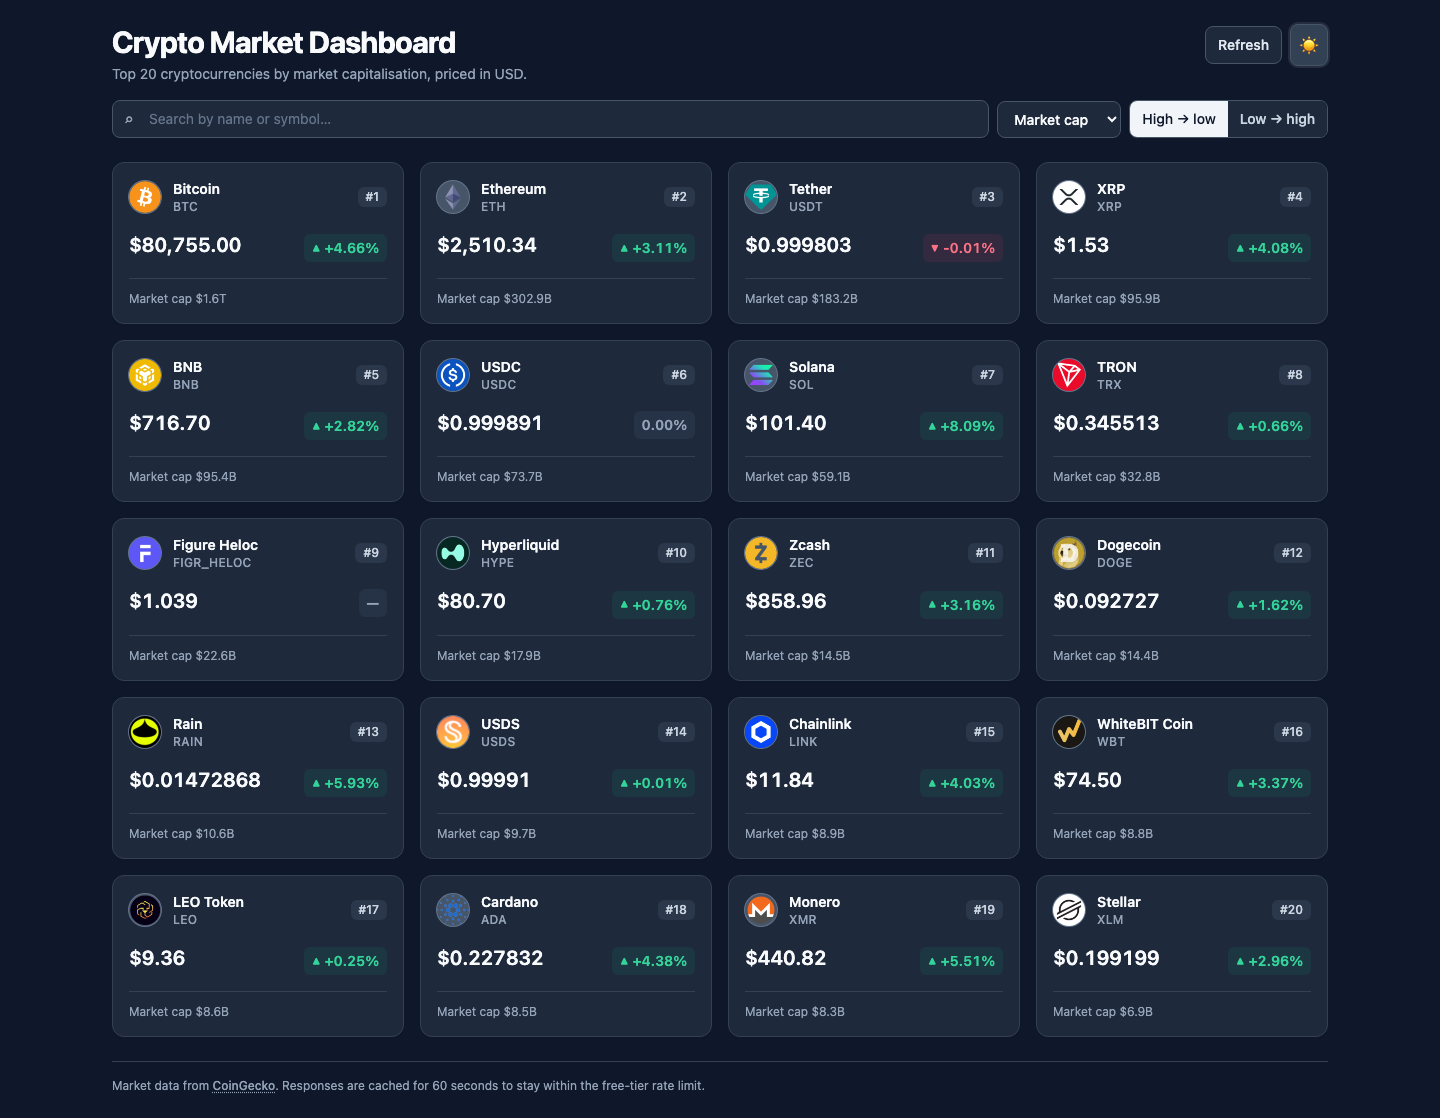
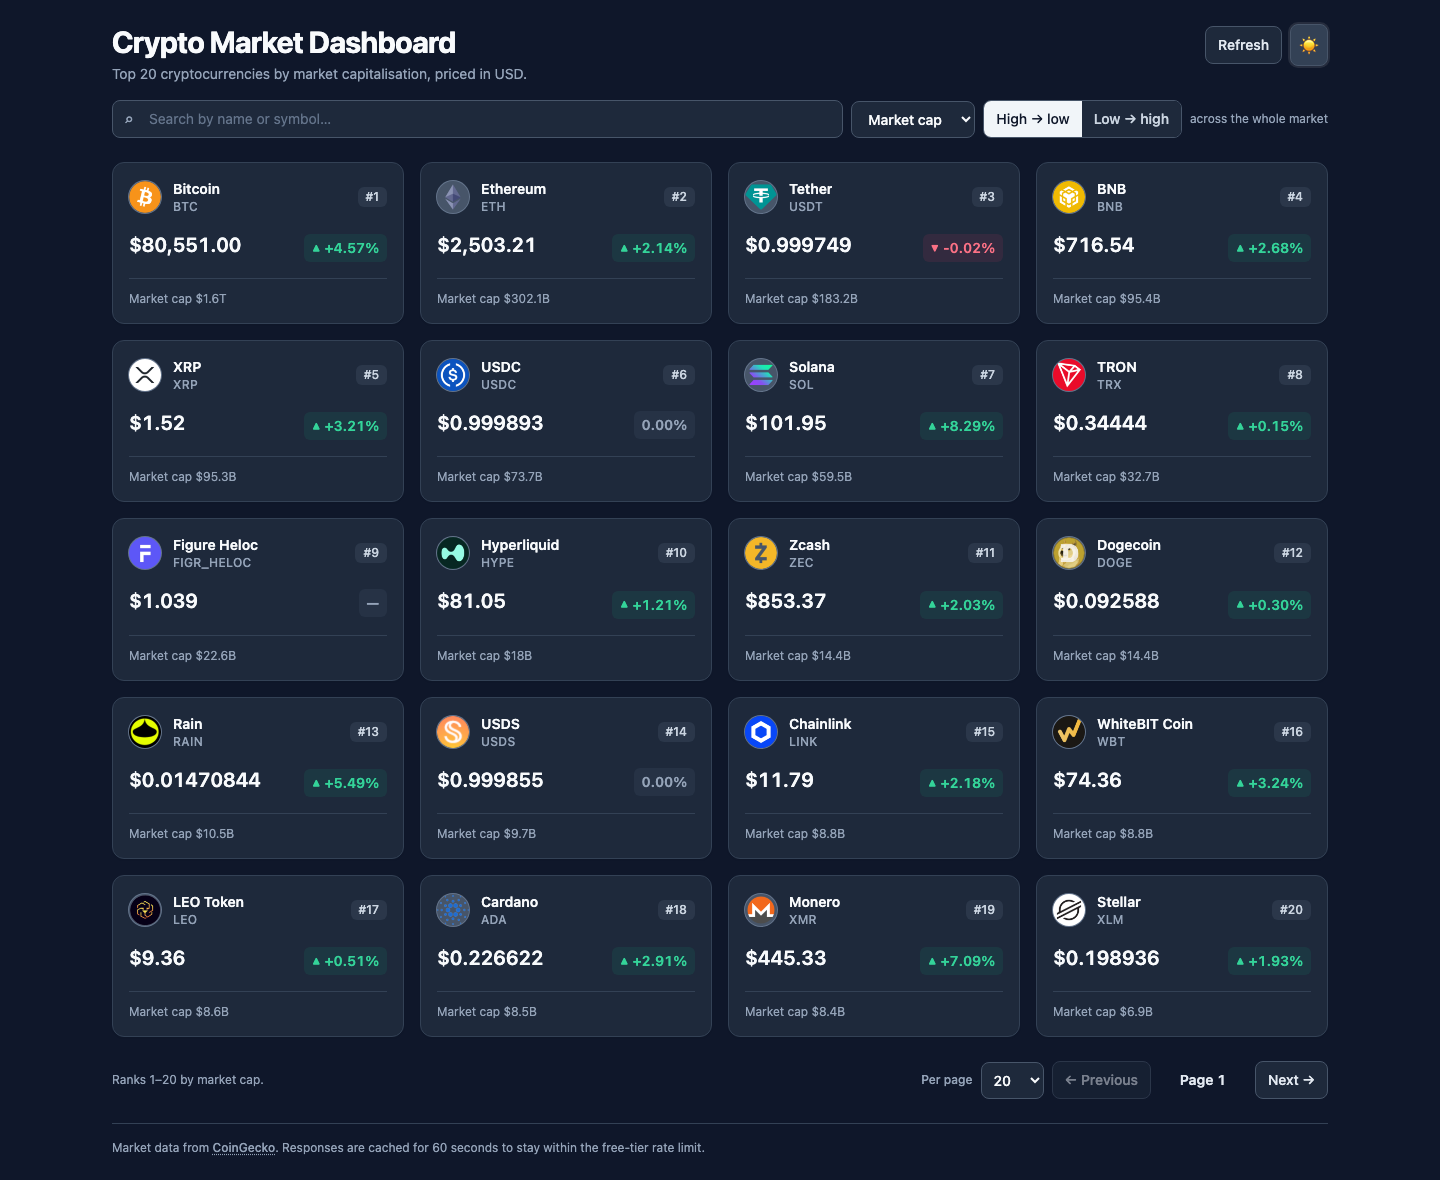
refactor: move the page-size control into the pagination bar
Feedback: the selector belonged with prev/next rather than crowding the search
and sort row, which had grown to four controls plus a scope hint.

- Pagination now hosts PageSizeSelect, so every paging concern - size, page
  number, direction, and the rank summary - lives in one row
- the label reads "Per page" rather than "Show", which is self-explanatory
  standing next to the pager instead of under a "Sort by" heading
- App no longer renders the selector itself, just passes size and handler down

Guarded by assertions on placement (inside [data-testid=pagination], absent
from the banner) and on the accessible name, so the control cannot silently
drift back into the header.

Also refreshes the README screenshots for the new layout, drops five scratch
screenshots that nothing referenced, and makes two knip-flagged helper
interfaces module-internal.

RED evidence:  2 failed, 13 passed  (placement + accessible name)
GREEN evidence:
  npx playwright test e2e/page-size.spec.ts --project=desktop-chromium
    -> 15 passed
  npx playwright test
    -> 199 passed, 5 skipped
  npx tsc --noEmit      -> clean
  CI=true npm run build -> Compiled successfully.
  npx knip              -> no unused files, exports or dependencies

diff --git a/src/components/PageSizeSelect.tsx b/src/components/PageSizeSelect.tsx
@@ -29,7 +29,7 @@ function PageSizeSelect({ value, onChange, disabled = false }: PageSizeSelectPro
         htmlFor="page-size"
         className="whitespace-nowrap text-xs font-medium text-slate-500 dark:text-slate-400"
       >
-        Show
+        Per page
       </label>
 
       <select
@@ -38,7 +38,7 @@ function PageSizeSelect({ value, onChange, disabled = false }: PageSizeSelectPro
         value={value}
         disabled={disabled}
         onChange={(event) => onChange(Number(event.target.value))}
-        className="rounded-lg border border-slate-300 bg-white px-3 py-2 text-sm font-medium text-slate-900 focus:border-slate-400 focus:outline-none focus:ring-2 focus:ring-slate-900/10 disabled:cursor-not-allowed disabled:opacity-60 dark:border-slate-600 dark:bg-slate-800 dark:text-slate-50 dark:focus:ring-slate-100/10"
+        className="rounded-lg border border-slate-300 bg-white px-2 py-2 text-sm font-medium text-slate-900 focus:border-slate-400 focus:outline-none focus:ring-2 focus:ring-slate-900/10 disabled:cursor-not-allowed disabled:opacity-60 dark:border-slate-600 dark:bg-slate-800 dark:text-slate-50 dark:focus:ring-slate-100/10"
       >
         {sizes.map((size) => (
           <option key={size} value={size}>

diff --git a/src/components/Pagination.tsx b/src/components/Pagination.tsx
@@ -1,4 +1,5 @@
 import React from 'react';
+import PageSizeSelect from './PageSizeSelect';
 
 interface PaginationProps {
   page: number;
@@ -11,8 +12,10 @@ interface PaginationProps {
   rankRange: { first: number; last: number } | null;
   /** Coins on the page, used as the summary when none of them carry a rank. */
   coinCount: number;
+  pageSize: number;
   disabled?: boolean;
   onPageChange: (page: number) => void;
+  onPageSizeChange: (size: number) => void;
 }
 
 function Pagination({
@@ -20,8 +23,10 @@ function Pagination({
   hasNextPage,
   rankRange,
   coinCount,
+  pageSize,
   disabled = false,
   onPageChange,
+  onPageSizeChange,
 }: PaginationProps) {
   /*
    * Ranks are the most useful summary, but coins at the bottom of the market
@@ -49,7 +54,9 @@ function Pagination({
     >
       <p className="text-xs text-slate-500 dark:text-slate-400">{summary}</p>
 
-      <div className="flex items-center gap-2">
+      <div className="flex flex-wrap items-center gap-2">
+        <PageSizeSelect value={pageSize} onChange={onPageSizeChange} disabled={disabled} />
+
         <button
           type="button"
           data-testid="prev-page"

diff --git a/src/App.tsx b/src/App.tsx
@@ -1,7 +1,6 @@
 import React, { useCallback, useMemo, useState } from 'react';
 import CoinGrid from './components/CoinGrid';
 import Pagination from './components/Pagination';
-import PageSizeSelect from './components/PageSizeSelect';
 import SearchBar from './components/SearchBar';
 import SortControls from './components/SortControls';
 import ThemeToggle from './components/ThemeToggle';
@@ -179,11 +178,6 @@ function App() {
               onDirectionChange={handleSortDirectionChange}
               disabled={controlsDisabled}
             />
-            <PageSizeSelect
-              value={pageSize}
-              onChange={handlePageSizeChange}
-              disabled={controlsDisabled}
-            />
           </div>
         </header>
 
@@ -200,8 +194,10 @@ function App() {
             hasNextPage={hasNextPage}
             rankRange={rankRange}
             coinCount={coins.length}
+            pageSize={pageSize}
             disabled={loading}
             onPageChange={goToPage}
+            onPageSizeChange={handlePageSizeChange}
           />
         )}
 

diff --git a/e2e/page-size.spec.ts b/e2e/page-size.spec.ts
@@ -22,6 +22,19 @@ test.describe('the control', () => {
     await expect(page.getByTestId('page-size')).toHaveValue('20');
   });
 
+  test('sits with the pagination controls, not in the header', async ({ page }) => {
+    // Page size is a paging concern, so it belongs next to prev/next rather
+    // than crowding the search and sort row.
+    await expect(page.getByTestId('pagination').getByTestId('page-size')).toBeVisible();
+    await expect(page.getByRole('banner').getByTestId('page-size')).toHaveCount(0);
+  });
+
+  test('is labelled so its purpose is clear on its own', async ({ page }) => {
+    const select = page.getByTestId('pagination').getByTestId('page-size');
+
+    await expect(select).toHaveAccessibleName(/per page/i);
+  });
+
   test('offers the configured default among its options', async ({ page }) => {
     const values = await page
       .getByTestId('page-size')

diff --git a/e2e/helpers/mockApi.ts b/e2e/helpers/mockApi.ts
@@ -124,7 +124,7 @@ export async function mockPageTwoFailure(page: Page): Promise<{ recover: () => v
   };
 }
 
-export interface MarketsRequest {
+interface MarketsRequest {
   page: number;
   order: string;
 }
@@ -161,7 +161,7 @@ export async function mockCoinsOrdered(page: Page): Promise<{ requests: MarketsR
   return state;
 }
 
-export interface SizedRequest {
+interface SizedRequest {
   page: number;
   perPage: number;
 }

diff --git a/docs/testing/crypto-market-dashboard.tdd.md b/docs/testing/crypto-market-dashboard.tdd.md
@@ -23,6 +23,9 @@ Node 26.5.0. No Jest/RTL — the CRA scaffolding for it was removed deliberately
 | 6 | As a crypto watcher, I want to switch between light and dark themes and have my choice remembered. | `e2e/theme.spec.ts` |
 | 7 | As a crypto watcher, I want repeat visits to reuse recently fetched data, so that the dashboard is instant and does not get rate-limited — while still being able to force a refresh. | `e2e/caching.spec.ts` |
 | 8 | As a crypto watcher, I want to page beyond the top 20, so that I can look further down the market without loading thousands of coins at once. | `e2e/pagination.spec.ts` |
+| 9 | As a crypto watcher, I want sorting by market cap to reorder the whole market rather than just the rows on screen, so that "lowest market cap" means the actual bottom of the market. | `e2e/sort-order.spec.ts` |
+| 10 | As a crypto watcher, I want to choose how many coins a page shows, so that I can scan a short list or a long one. | `e2e/page-size.spec.ts` |
+| 11 | As a crypto watcher sorting to the bottom of the market, I want coins with no rank to display sensibly, so that the dashboard does not show placeholder junk or contradict itself. | `e2e/unranked-coins.spec.ts` |
 
 ---
 
@@ -202,6 +205,65 @@ this task and made module-internal; they are consumed through `pagedFixtures`.
 | Next | first coin Bitcoin Cash, rank #21 — correct continuation |
 | Previous | back to Bitcoin, and pages requested were `1, 2` — no repeat request |
 
+### Task 9 — API-backed market cap sorting (RED → GREEN)
+
+The API was probed **before** writing any code, because the obvious implementation is a
+trap. CoinGecko's `order` accepts `market_cap_asc|desc`, `volume_*` and `id_*`, but for
+price and 24h change it returns **200 with plain market-cap ordering** instead of an error:
+
+| `order` sent | HTTP | First three coins | Verdict |
+|---|---|---|---|
+| `market_cap_desc` | 200 | bitcoin, ethereum, tether | honoured |
+| `market_cap_asc` | 200 | namecoin, primecoin, whitecoin | honoured |
+| `volume_desc` | 200 | tether, bitcoin, usd-coin | honoured |
+| `price_desc` | 200 | bitcoin, ethereum, tether | **ignored** |
+| `price_asc` | 200 | bitcoin first | **ignored** |
+| `percent_change_24h_desc` | 200 | bitcoin, ethereum, tether | **ignored** |
+
+Wiring all three sort fields to the API would have shipped two silently broken sorts. So
+market cap goes to the API; price and 24h change stay local; `MarketsOrder` is narrowed to
+the two working values so an ignored one cannot be sent by accident; and the UI labels the
+scope.
+
+- **RED:** `8 failed, 4 passed` (`1a8e5f6`). The 4 passes are pre-existing guarantees —
+  price/change already never hit the API because `order` was hardcoded — kept in the spec
+  because they must continue to hold.
+- **GREEN:** `12 passed` on the spec, `155 passed, 5 skipped` overall (`408cadd`).
+
+### Task 10 — Page-size selector (RED → GREEN), plus a nullable-rank bug
+
+- **RED:** `13 failed` (`8fc5aed`) — no `page-size` control existed.
+- **Implementation:** `per_page` threaded through `fetchCoins`/`useCoins`, included in
+  both the cache key and the in-flight key, with page reset on change.
+
+Driving it against the live API then exposed a **typing bug**:
+
+```
+order=market_cap_asc&per_page=3
+  namecoin   market_cap_rank=None  market_cap=0.0
+  primecoin  market_cap_rank=None  market_cap=0.0
+```
+
+`CoinMarketResponse` declared `market_cap_rank: number`. Two visible defects followed: a
+dangling `#` on every card, and the pager reading *"No coins on this page."* above 50
+rendered coins.
+
+- **RED:** `3 failed, 4 passed` (`083278f`)
+- **Fix:** the rank is `number | null` in both the wire and domain types, the mapping
+  guards it, the badge renders only when a rank exists, and `Pagination` now distinguishes
+  an empty page from a page whose coins carry no rank.
+- **GREEN:** `20 passed` across both specs, `195 passed, 5 skipped` overall (`1ea0fcc`).
+
+### Task 11 — Move the page-size control into the pager (RED → GREEN)
+
+Feedback: the selector belonged with the pagination controls, not crowding the search and
+sort row.
+
+- **RED:** `2 failed, 13 passed` — placement and accessible-name assertions.
+- **GREEN:** `15 passed` on the spec, `199 passed, 5 skipped` overall.
+
+Two helper interfaces flagged by knip after this task were made module-internal.
+
 ---
 
 ## Test specification
@@ -258,6 +320,25 @@ this task and made module-internal; they are consumed through `pagedFixtures`.
 | 48 | Search and sort apply to the loaded page; the query survives a page change; the empty state names the page | `pagination.spec.ts:interaction with search and sort` | e2e | PASS |
 | 49 | The pager reports the true market-cap rank range, including on a short page | `pagination.spec.ts:rank range summary` | e2e | PASS |
 | 50 | Changing page scrolls back to the top | `pagination.spec.ts:scrolls back to the top` | e2e | PASS |
+| 51 | `order=market_cap_desc` is sent on first load | `sort-order.spec.ts:sends order=market_cap_desc on first load` | e2e | PASS |
+| 52 | Switching to low-to-high sends `order=market_cap_asc` | `sort-order.spec.ts:sends order=market_cap_asc` | e2e | PASS |
+| 53 | The API's ordering is rendered, not re-sorted locally | `sort-order.spec.ts:renders the order the API returned` | e2e | PASS |
+| 54 | Changing the global order resets to page 1 | `sort-order.spec.ts:goes back to page 1` | e2e | PASS |
+| 55 | Each order caches separately | `sort-order.spec.ts:caches each order separately` | e2e | PASS |
+| 56 | Price and 24h change never trigger a request | `sort-order.spec.ts:does not hit the API when switching to price` / `to 24h change` | e2e | PASS |
+| 57 | No `order` value the API silently ignores is ever sent | `sort-order.spec.ts:never sends an order value the API silently ignores` | e2e | PASS |
+| 58 | Switching from market cap to a local field does not refetch | `sort-order.spec.ts:keeps the fetched pool` | e2e | PASS |
+| 59 | The UI states whether a sort is market-wide or page-scoped | `sort-order.spec.ts:the UI says which scope applies` | e2e | PASS |
+| 60 | The page-size control defaults to the configured size, sits with the pager, and is labelled | `page-size.spec.ts:the control` | e2e | PASS |
+| 61 | Changing the size sends the new `per_page` and renders that many coins | `page-size.spec.ts:requests the new size` / `renders as many coins` / `shrinks the list` | e2e | PASS |
+| 62 | Changing the size returns to page 1 | `page-size.spec.ts:returns to page 1` | e2e | PASS |
+| 63 | Each size caches separately | `page-size.spec.ts:caches each size separately` | e2e | PASS |
+| 64 | Paging and end-of-data respect the chosen size | `page-size.spec.ts:pages at the chosen size` / `detects the last page` | e2e | PASS |
+| 65 | Rank range, heading and search follow the chosen size | `page-size.spec.ts:reports the rank range` / `the rest of the UI keeps up` | e2e | PASS |
+| 66 | A coin with no rank renders no badge and no dangling `#` | `unranked-coins.spec.ts:renders no rank badge` | e2e | PASS |
+| 67 | A ranked coin still shows its badge on a partially ranked page | `unranked-coins.spec.ts:a ranked coin still shows its rank badge` | e2e | PASS |
+| 68 | The pager reports a coin count when no coin carries a rank, and the ranks that exist when some do | `unranked-coins.spec.ts:the pager summary` | e2e | PASS |
+| 69 | An unranked page leaks no NaN/undefined/null | `unranked-coins.spec.ts:leaks no NaN` | e2e | PASS |
 
 ---
 
@@ -266,7 +347,7 @@ this task and made module-internal; they are consumed through `pagedFixtures`.
 No line-coverage number is reported. Playwright is a black-box browser runner, and
 `react-scripts` provides no instrumentation hook for it without ejecting or adding a
 second runner — which would defeat the single-runner decision. Coverage is instead stated
-as behavioural coverage: the 50 guarantees above map onto every numbered requirement in
+as behavioural coverage: the 69 guarantees above map onto every numbered requirement in
 `docs/INTERVIEW_TASK.md`, including all four listed edge cases.
 
 **Deliberate gaps:**
@@ -298,11 +379,18 @@ If these checkpoint commits are squashed, this is the summary to carry forward:
 
 - **RED:** 43/43 Playwright tests failed on `[data-testid=coin-card]` not found, before
   any feature code existed (`a26ca25`).
-- **GREEN:** 131 passed / 5 skipped after implementation, the rounding fix, the
-  environment-configuration refactor, the dead-code cleanup and server-side pagination,
-  with `tsc --noEmit` clean, `npm run build` compiling and `knip` reporting no unused
-  files, exports or dependencies.
+- **GREEN:** 199 passed / 5 skipped after implementation, the rounding fix, the
+  environment-configuration refactor, the dead-code cleanup, server-side pagination,
+  API-backed market cap sorting and the page-size selector — with `tsc --noEmit` clean,
+  `npm run build` compiling and `knip` reporting no unused files, exports or dependencies.
 - **Second bug found by looking at the rendered page, fixed under test:** the header
   claimed "Top 20" while showing ranks 21-40 (`RED 4 failed -> GREEN 17 passed`).
+- **Third bug, found by driving the live API:** `market_cap_rank` is nullable at the
+  bottom of the market, producing a dangling `#` on every card and a pager claiming an
+  empty page above 50 coins (`RED 3 failed -> GREEN 20 passed`).
+- **A trap avoided by probing the API before coding:** CoinGecko silently ignores
+  `order=price_*` and `order=percent_change_24h_*`, answering 200 with market-cap order.
+  Only market cap is sent server-side; the type system now makes the alternative
+  unrepresentable.
 - **Bug found and fixed under test:** 24h changes that round to zero rendered as red
   losses; found by driving the live API, fixed RED→GREEN (`caae21d`).

diff --git a/README.md b/README.md
@@ -21,8 +21,9 @@ React, TypeScript, Tailwind CSS and axios, against the free
 | **Responsive grid** | 1 column on mobile, 2 on tablet, 3 on laptop, 4 on desktop |
 | **Card content** | Icon, name, symbol, USD price, 24h change (green up / red down), market cap and rank |
 | **Search** | Filters by name *or* symbol, case- and whitespace-insensitive |
-| **Sort** | Market cap, price or 24h change, ascending or descending |
+| **Sort** | Market cap (server-side, whole market), price or 24h change (current page) |
 | **Pagination** | Server-side: each page is its own request, separately cached |
+| **Page size** | 10/20/50/100 per page, sent as `per_page` — not a local slice |
 | **Edge cases** | Loading skeletons, error state with retry, empty search state, network-failure recovery |
 | **Bonus** | Server-side pagination, dark/light theme toggle (persisted), and a Playwright E2E suite |
 
@@ -99,7 +100,8 @@ src/
 │   ├── format.ts        price and percentage formatting, trend derivation
 │   └── sort.ts          pure filterCoins / sortCoins
 ├── components/
-│   ├── CoinCard, CoinGrid, SearchBar, SortControls, ThemeToggle, Pagination
+│   ├── CoinCard, CoinGrid, SearchBar, SortControls, ThemeToggle
+│   ├── Pagination (hosts PageSizeSelect)
 │   └── states/          SkeletonGrid, ErrorState, EmptyState
 └── App.tsx              owns search/sort state, picks which state to render
 e2e/                     Playwright specs, fixtures and helpers
@@ -158,6 +160,30 @@ for a 20-row view) or calling CoinGecko's search endpoint, which returns a diffe
 shape with no prices. Rather than hide that, the UI states it — the pager reports the
 rank range you are viewing, and an empty search result says which page it searched.
 
+**Only market cap is sorted by the API — and that is a limitation of the API, not a
+shortcut.** CoinGecko's `order` parameter accepts `market_cap_asc|desc`, `volume_*` and
+`id_*`. It does *not* support price or 24h change, and it does not reject them either:
+
+| `order` sent | HTTP | First three coins |
+|---|---|---|
+| `market_cap_asc` | 200 | namecoin, primecoin, whitecoin ✅ |
+| `volume_desc` | 200 | tether, bitcoin, usd-coin ✅ |
+| `price_desc` | 200 | bitcoin, ethereum, tether ❌ silently market-cap order |
+| `percent_change_24h_desc` | 200 | bitcoin, ethereum, tether ❌ silently market-cap order |
+
+Tether at $0.99 ranking third "by price" is the tell. Wiring all three fields to the API
+would leave two of them quietly broken with no error to debug. So market cap goes to the
+API and spans every coin CoinGecko tracks; price and 24h change are sorted locally over
+the loaded page; and the `MarketsOrder` type is narrowed to the two values that actually
+work, so an ignored value cannot be sent by accident. The sort row states which scope is
+in effect — "across the whole market" or "within this page only".
+
+**Page size is a request parameter, not a local slice.** Choosing 50 fetches 50. It caches
+under its own key and resets to page 1, because page 3 of 20-per-page and page 3 of
+50-per-page point at different coins. The list stops at 100 even though CoinGecko allows
+250: past that the payload and the number of rendered cards cost more than the extra rows
+are worth in a grid you scan.
+
 **"Next" is enabled by page length, not a total count.** CoinGecko does not return a
 total on this endpoint. A full page means "there may be more"; a short page means the
 end. Showing a true page count would cost an extra request for a number the user does
@@ -175,7 +201,7 @@ price movement.
 npm run test:e2e
 ```
 
-**131 passed, 5 skipped** across a desktop and a mobile project. The 5 skips are the
+**199 passed, 5 skipped** across a desktop and a mobile project. The 5 skips are the
 viewport-driven responsive tests, scoped to the desktop project so they run once.
 
 | Spec | Covers |
@@ -187,6 +213,9 @@ viewport-driven responsive tests, scoped to the desktop project so they run once
 | `caching.spec.ts` | One request on load; reload served from cache; refresh bypasses it; TTL expiry re-fetches |
 | `api-request.spec.ts` | The outgoing query matches the brief; `per_page` is never `NaN`; no API key header when unset |
 | `pagination.spec.ts` | Pager state and disabled edges; `page=N` reaches the API; short final page ends paging; pages cache independently; a failing page recovers via retry; search/sort scoped to the page; rank-range summary; scroll-to-top |
+| `sort-order.spec.ts` | Market cap round-trips as `order=market_cap_asc\|desc`; the API's ordering is rendered, not re-sorted; order change resets to page 1; orders cache separately; price/24h change never hit the API and no ignored `order` value is ever sent; the scope label |
+| `page-size.spec.ts` | The selector lives with the pager and is labelled; `per_page` reaches the API; the list grows and shrinks; page resets; sizes cache separately; paging and end-of-data respect the size; heading, rank range and search follow it |
+| `unranked-coins.spec.ts` | A coin with `market_cap_rank: null` shows no badge and no dangling `#`; the pager falls back to a coin count instead of claiming the page is empty; partially ranked pages report the ranks that exist |
 | `theme.spec.ts` | Dark mode toggle, round trip, persistence across reload, and the storage key the pre-paint script depends on |
 
 The fixture in `e2e/fixtures/coins.ts` is shaped so each edge case has exactly one
@@ -205,6 +234,8 @@ Beyond the suite, the app was verified against the live API: one network request
   a router would land naturally alongside the detail page above.
 - **Global search across pages** — see the tradeoff note above. Would use CoinGecko's
   `/search` endpoint plus a follow-up markets call to hydrate prices.
+- **Volume as a fourth sort field** — the API genuinely supports `volume_asc|desc`, so it
+  would be another real server-side sort for roughly the cost of one enum value.
 - **Unit tests for `lib/`** — the pure functions are currently covered through the DOM.
   E2E proves the user-visible behaviour, but a Vitest layer over `format.ts` and
   `sort.ts` would pin edge cases faster than a browser round trip.
@@ -217,7 +248,7 @@ Beyond the suite, the app was verified against the live API: one network request
 ## Testing notes
 
 A full TDD evidence report — user journeys, RED/GREEN output for each stage, the
-50 behavioural guarantees and the known gaps — lives in
+69 behavioural guarantees and the known gaps — lives in
 [`docs/testing/crypto-market-dashboard.tdd.md`](docs/testing/crypto-market-dashboard.tdd.md).
 
 ## Licence
